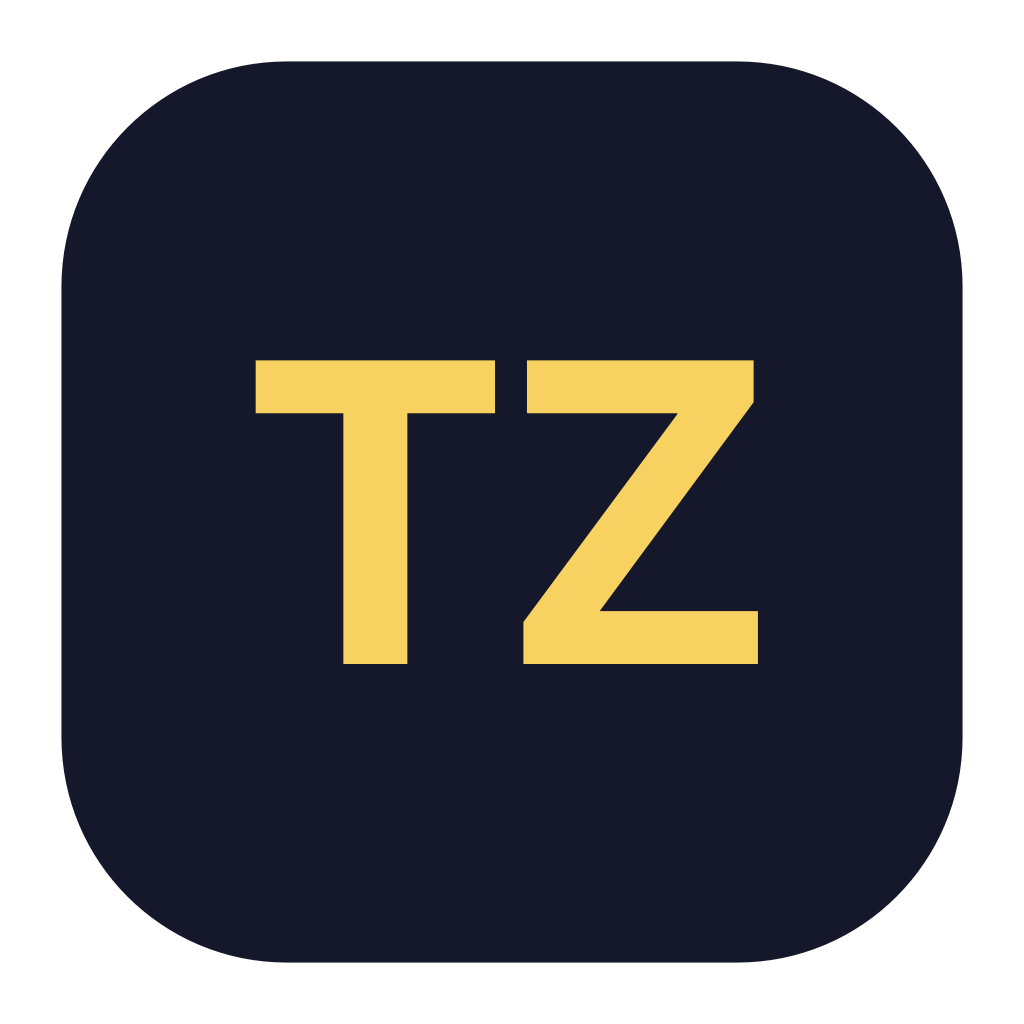
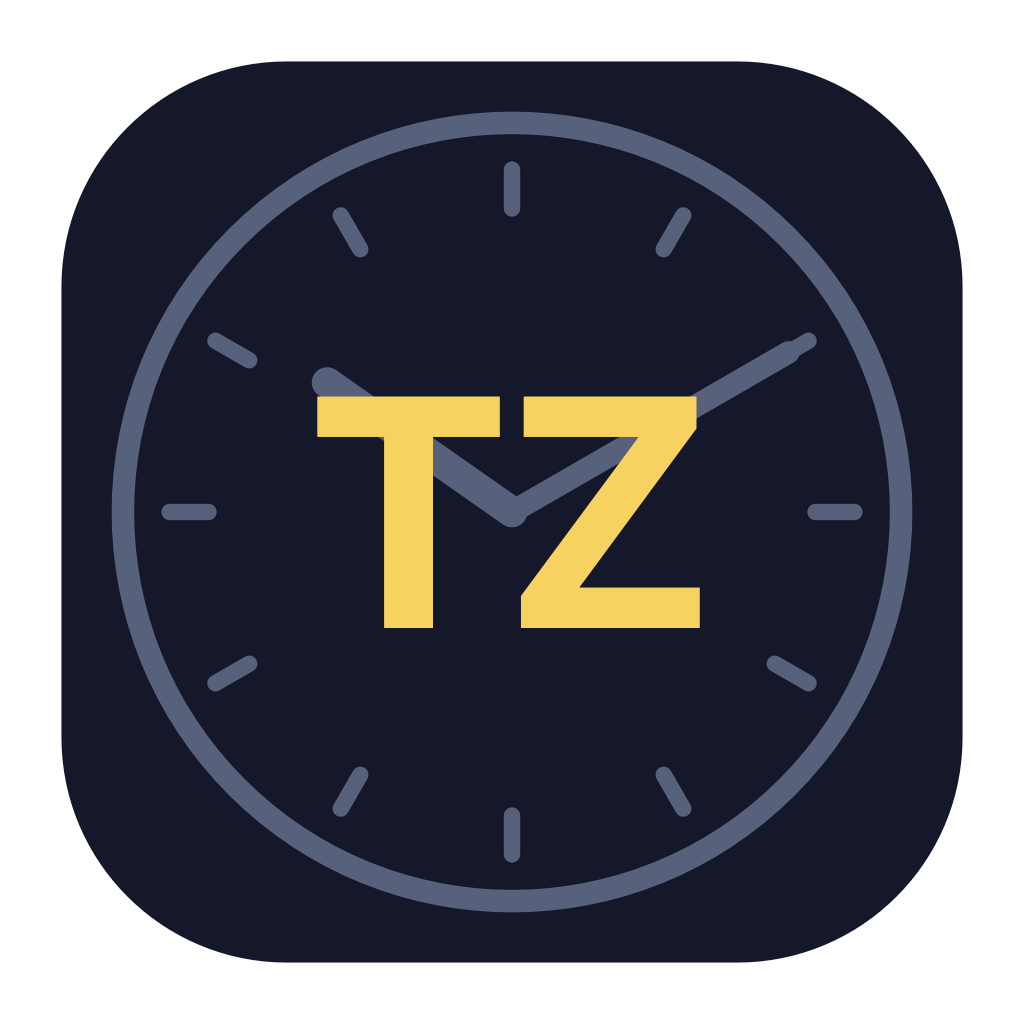
Put a clock behind the monogram
A grey face -- ring, twelve marks, hour and minute hands -- drawn under the TZ.
No second hand: a third hand at icon size is a smudge, and this clock is not
running.

Ten past ten, which is what every clock in every advertisement shows and for the
same reason: the hands sit high and apart, framing what is in the middle rather
than striking through it. At six thirty they would point straight down through
the letters.

THE ANGLE MATH IS THE PART THAT FAILS QUIETLY. Clock angles run clockwise from
twelve and Cocoa's y axis runs up, so the usual (cos, sin) pairing is wrong twice
over -- and wrong in a way that still draws a perfectly convincing clock, showing
the wrong time, mirrored. x takes the sine and y the cosine.

The composition needed a second pass that only the rendered image could ask for.
At the monogram's original size the letters swallowed both hands whole, leaving a
ring with tick marks, which is not a clock. The face is larger and the letters
smaller than they were, so both hand tips clear the letterforms -- checked at
1024, 128 and 32, since an icon lives or dies at the last of those.

Round line caps on the hands: butt caps look snapped off once the icon is scaled
down.

The bundle keeps its signature; codesign --verify --deep --strict still passes.

Claude-Session: https://claude.ai/code/session_01MTSGqT6AbCGiTVjCzmzH2w

Changed region(s): [[0.0938, 0.0938, 0.9062, 0.9062]]

diff --git a/README.md b/README.md
@@ -107,19 +107,33 @@ that to an `.icns` with `sips` and `iconutil` at build time. There is no binary
 artwork in the repository and changing the colour is an edit:
 
 ```lisp
-(objc:invoke (color 0.10 0.13 0.22) "set")     ; the plate
-(draw-monogram "TZ" size :font-fraction 0.42
+(objc:invoke (color 0.10 0.13 0.22) "set")            ; the plate
+(draw-clock size :colour (color 0.42 0.46 0.56))      ; ring, marks, two hands
+(draw-monogram "TZ" size :font-fraction 0.32
                          :colour (color 0.98 0.85 0.45))
 ```
 
-Two things that had to be got right, and both are the kind that produce a
-plausible wrong answer rather than an error. **A Lisp string is a CLASS NAME
+The clock reads ten past ten, which is what every clock in every advertisement
+shows and for the same reason: the hands sit high and apart, framing what is in
+the middle rather than striking through it. No second hand — a third hand at
+this size is a smudge, and this clock is not running.
+
+Three things had to be got right, and each produces a plausible wrong answer
+rather than an error. **Clock angles run clockwise from twelve while Cocoa's y
+axis runs up**, so the usual `(cos, sin)` pairing is wrong twice over — and
+wrong in a way that still draws a perfectly convincing clock, showing the wrong
+time, mirrored. `x` takes the sine and `y` the cosine. **A Lisp string is a CLASS NAME
 when it is the receiver** — `(objc:invoke "TZ" "sizeWithAttributes:" …)` asks
 for a class called `TZ` — so the text is converted with `string-to-ns-string`
 first. And **`-drawAtPoint:` positions the line box, not the ink**: a line box
 reserves room for descenders, which "TZ" has none of, so centring on the
 measured height hangs the letters visibly low. It centres on cap height above
 the baseline instead.
+
+And a composition note that only showed up on screen: at the monogram's original
+size the letters swallowed both hands entirely, leaving a ring with tick marks —
+which is not a clock. The face is larger and the letters smaller than they first
+were, so the hand tips clear the letterforms.
 
 Worth knowing where the icon is actually seen: `LSUIElement` means no Dock icon
 and no application-switcher entry, so it appears in Finder, Spotlight and "Open
